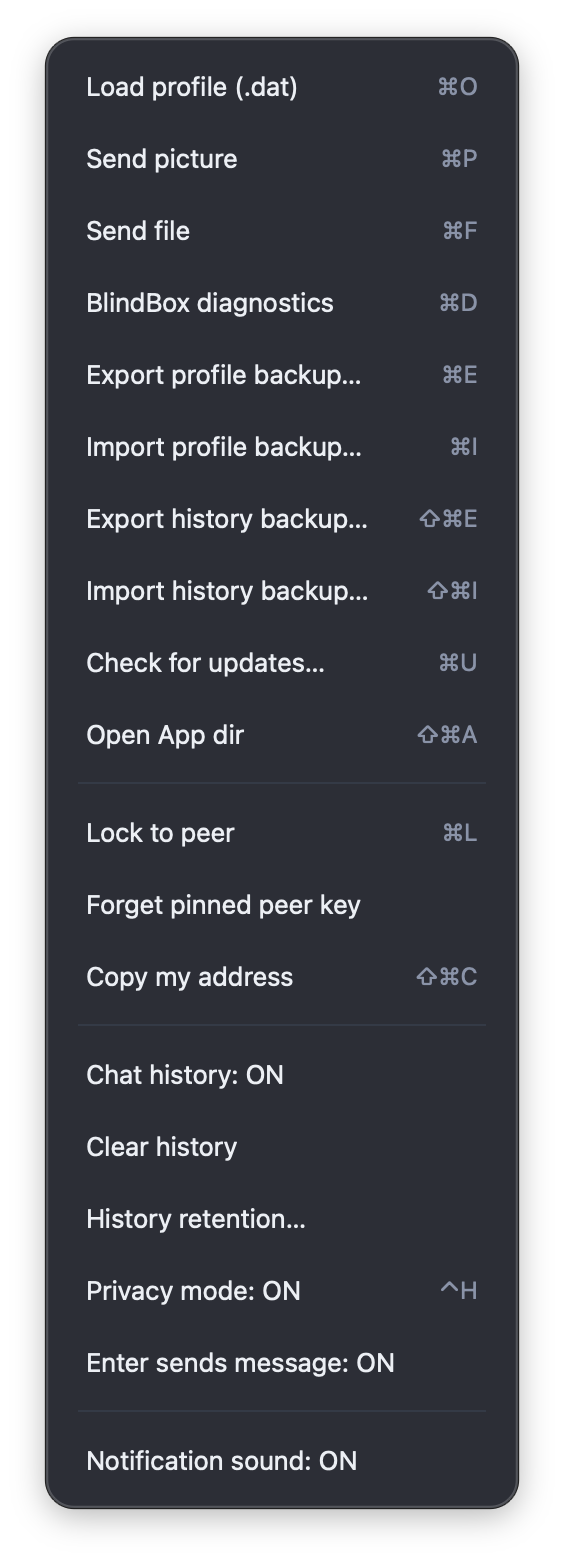
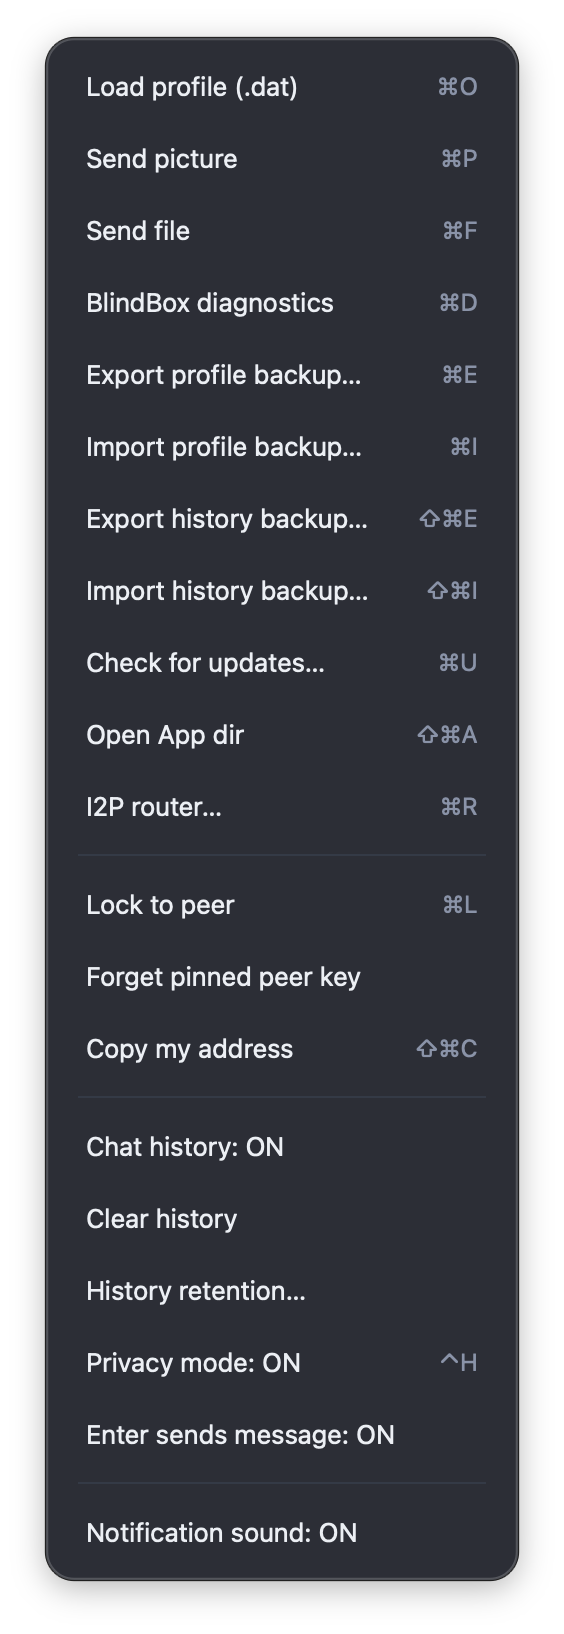
Document the router dialog with updated screenshots
The 1.2.0 docs describe the bundled/system router backend, so add the
new router dialog screenshot and refresh screenshot references in the
README and manuals. This keeps the release notes and user guides aligned
with the actual UI the user now sees.

Constraint: Documentation screenshots should match the current shipped UI closely enough to be useful
Rejected: Mention the router dialog only in text | less helpful for users learning the new backend workflow
Confidence: high
Scope-risk: narrow
Reversibility: clean
Directive: When the router dialog UI changes materially, refresh screenshots/8.png and the inline docs together
Tested: python3 -m py_compile i2pchat/gui/main_qt.py i2pchat/gui/menu_manual_tooltips.py
Not-tested: Rendered markdown image preview on GitHub after upload

diff --git a/docs/MANUAL_RU.md b/docs/MANUAL_RU.md
@@ -134,6 +134,10 @@
 - **Enter sends message: ON/OFF** — при **ON**: **Enter** отправляет сообщение, **Shift+Enter** — новая строка (**Ctrl/⌘+Enter** по-прежнему отправляет). При **OFF** (по умолчанию): **Enter** — новая строка; **Shift+Enter** или **Ctrl/⌘+Enter** — отправка. Текст-подсказка в поле ввода меняется вместе с режимом; выбор сохраняется (см. **`ui_prefs.json`**).
 - **Notification sound: ON/OFF** — звук входящих, когда он должен проигрываться; при OFF путь к кастомному звуку сохраняется (при активном Privacy mode звук в фокусе всё равно подавляется).
 
+Пример окна **I2P router** (**⋯ → I2P router…** / **Ctrl/Cmd+R**):
+
+<img src="../screenshots/8.png" alt="Диалог I2P router: выбор system или bundled i2pd, настройка портов, открытие путей роутера и перезапуск bundled router" width="900" />
+
 #### 4.2. Поле адреса пира
 
 Поле `Peer .b32.i2p address` предназначено для полного адреса собеседника в виде:

diff --git a/docs/MANUAL_EN.md b/docs/MANUAL_EN.md
@@ -134,6 +134,10 @@ Click the **`⋯`** button or press **Ctrl+.** (Windows/Linux) / **⌘+.** (macO
 - **Enter sends message: ON/OFF** — when **ON**: **Enter** sends the message, **Shift+Enter** inserts a new line (**Ctrl/⌘+Enter** still sends). When **OFF** (default): **Enter** is a new line; **Shift+Enter** or **Ctrl/⌘+Enter** sends. The compose placeholder text updates accordingly; the choice is persisted for the profile (see **`ui_prefs.json`**).
 - **Notification sound: ON/OFF** — enable or mute the incoming-message sound path when it would otherwise play (custom sound path is kept when off; Privacy mode can still mute sound while the window is focused).
 
+Example **I2P router** dialog (**⋯ → I2P router…** / **Ctrl/Cmd+R**):
+
+<img src="../screenshots/8.png" alt="I2P router dialog: choose system or bundled i2pd backend, adjust ports, open router paths, restart bundled router" width="900" />
+
 #### 4.2. Peer address field
 
 The `Peer .b32.i2p address` field is for the full destination of your peer:

diff --git a/docs/releases/RELEASE_1.2.0.md b/docs/releases/RELEASE_1.2.0.md
@@ -31,6 +31,10 @@ There is also a new keyboard shortcut:
 - **Ctrl+R** on Windows/Linux
 - **⌘R** on macOS
 
+Example dialog:
+
+<img src="../../screenshots/8.png" alt="I2P router dialog: choose system or bundled i2pd backend, adjust ports, open router paths, restart bundled router" width="900" />
+
 #### 2. Router operations are available from the same dialog
 
 The router dialog also exposes direct actions:
@@ -136,6 +140,10 @@ No wire-format break is intended in **v1.2.0**.
 
 - **Ctrl+R** на Windows/Linux
 - **⌘R** на macOS
+
+Пример диалога:
+
+<img src="../../screenshots/8.png" alt="Диалог I2P router: выбор system или bundled i2pd, настройка портов, открытие путей роутера и перезапуск bundled router" width="900" />
 
 #### 2. Операции с роутером доступны прямо из диалога
 

diff --git a/README.md b/README.md
@@ -234,7 +234,7 @@ Practical notes:
   <img src="screenshots/7.png" alt="I2PChat – chat and image preview" width="900" />
 </p>
 
-The gallery above is a short subset. **`screenshots/2.png`** (⋯ menu), **`3.png`** (profile picker), **`5.png`** (emoji picker), and **`6.png`** (BlindBox diagnostics) are documented inline in [**MANUAL_EN.md**](docs/MANUAL_EN.md) / [**MANUAL_RU.md**](docs/MANUAL_RU.md).
+The gallery above is a short subset. **`screenshots/2.png`** (⋯ menu), **`3.png`** (profile picker), **`5.png`** (emoji picker), **`6.png`** (BlindBox diagnostics), and **`8.png`** (I2P router dialog) are documented inline in [**MANUAL_EN.md**](docs/MANUAL_EN.md) / [**MANUAL_RU.md**](docs/MANUAL_RU.md).
 
 ### 📦 Prebuilt binaries
 
